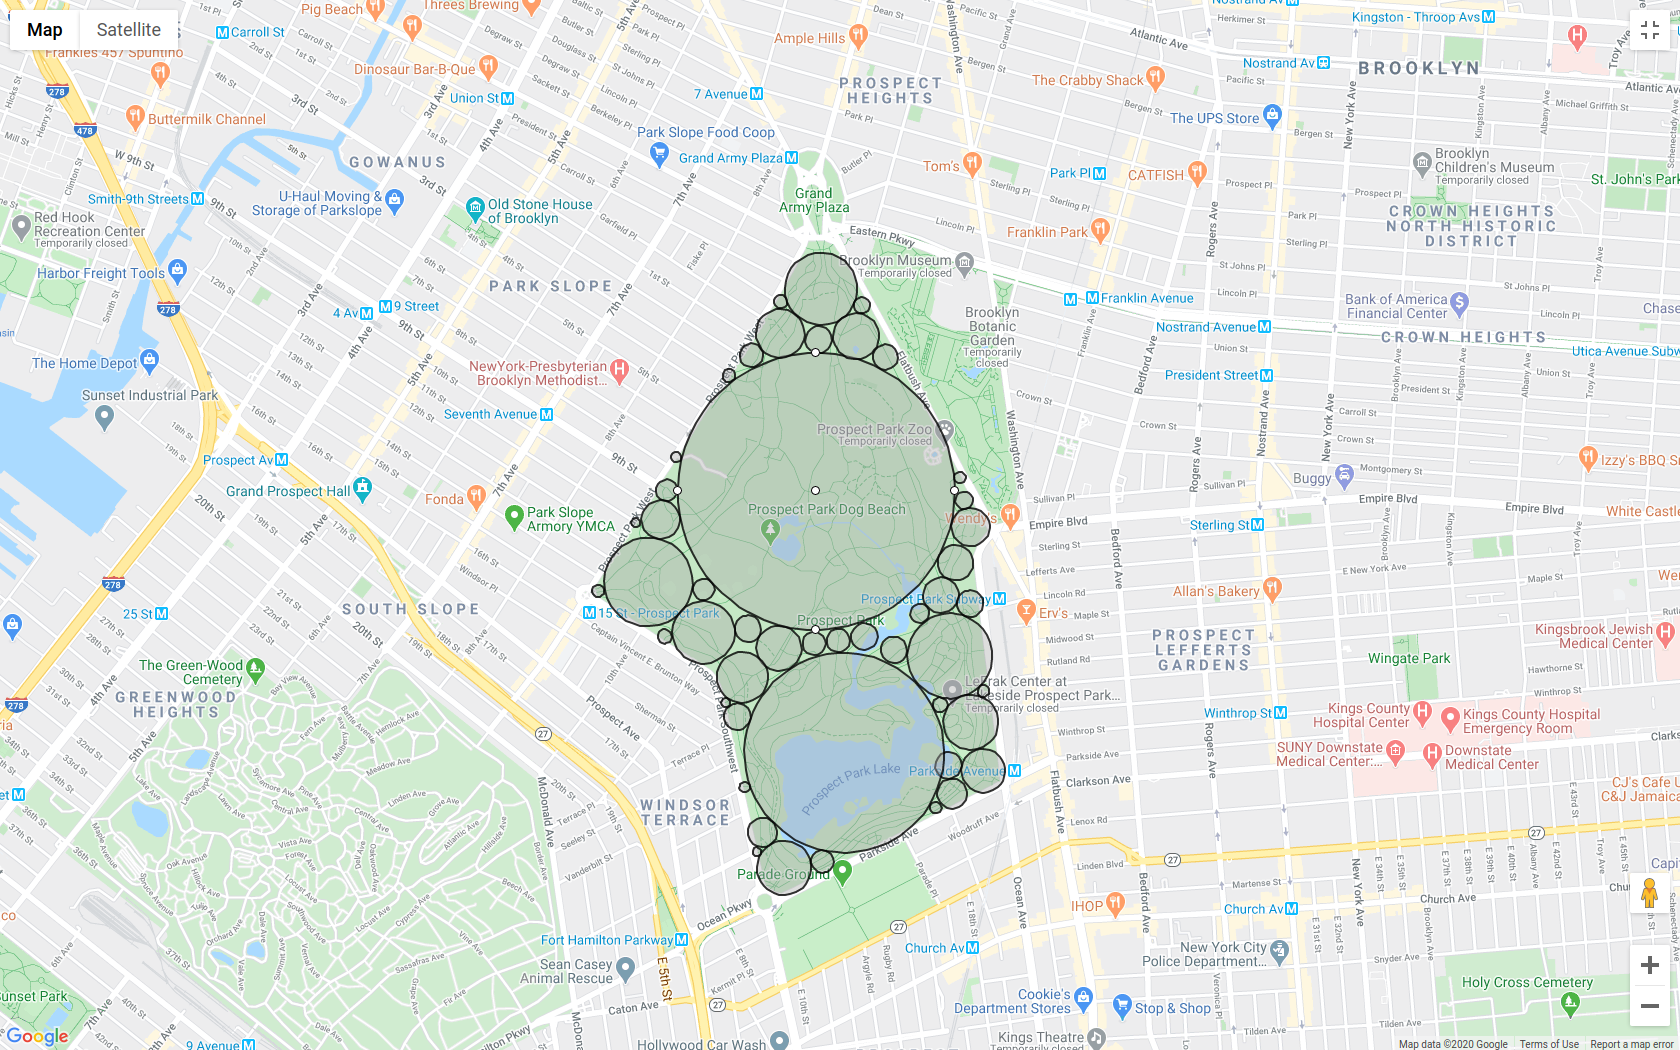
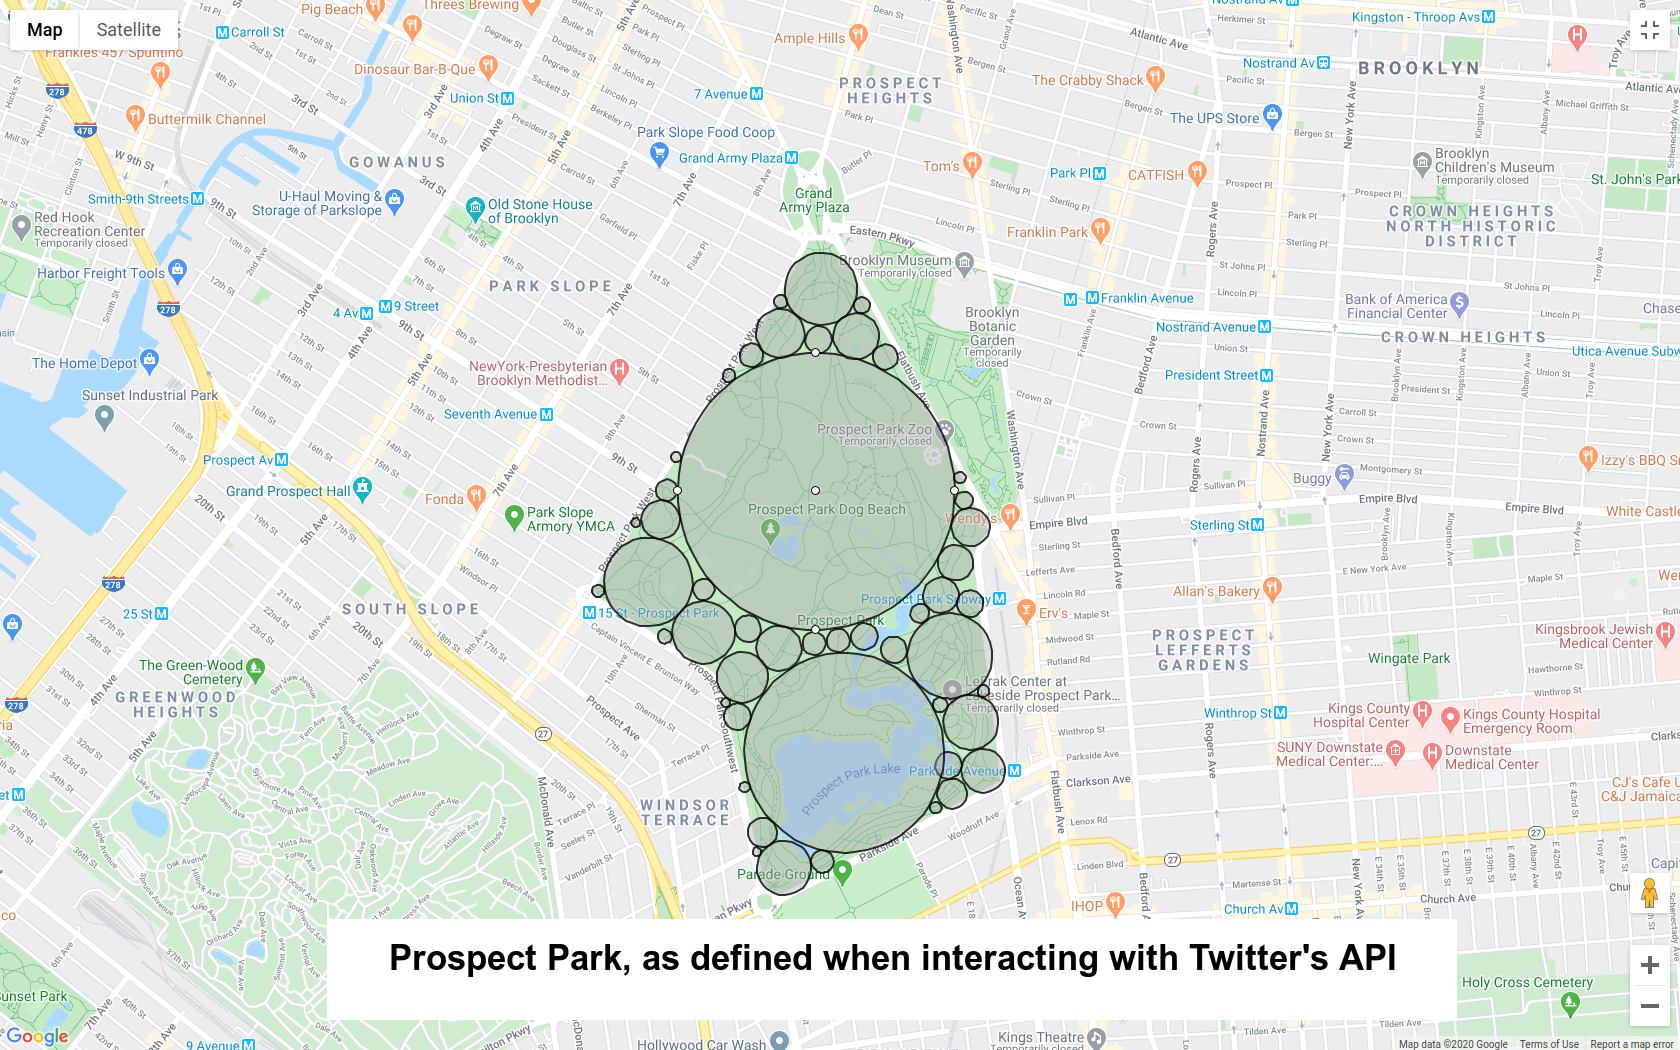
Updated the geotweet visualizations to display on frontend.

Changed region(s): [[0.1857, 0.8533, 0.8667, 0.9752]]

diff --git a/src/d07_streamlit/front_end.py b/src/d07_streamlit/front_end.py
@@ -138,9 +138,6 @@ def show(box, boxlabel):
                 image = Image.open('../d06_visuals/' + filename)
                 st.image(image,use_column_width=True)
 
-
-st.markdown("*Coming soon!*")
-
 #current_popularity = st.checkbox("current popularity")
 #if current_popularity:
     #show(current_popularity, 'current_popularity')
@@ -156,10 +153,12 @@ st.markdown("*Coming soon!*")
     #show(weather, 'weather')
 #    st.markdown("*Coming soon!*")
 
-#geotweets = st.checkbox("geotweets")
-#if geotweets:
-#    show(geotweets,'geotweets')
-    #st.markdown("*Coming soon!*")
+geotweets = st.checkbox("geotweets")
+if geotweets:
+    show(geotweets,'geotweets')
+
+
+st.markdown("*More data categories coming soon!*")
 
 #modeling = st.checkbox("model details")
 #if modeling:
